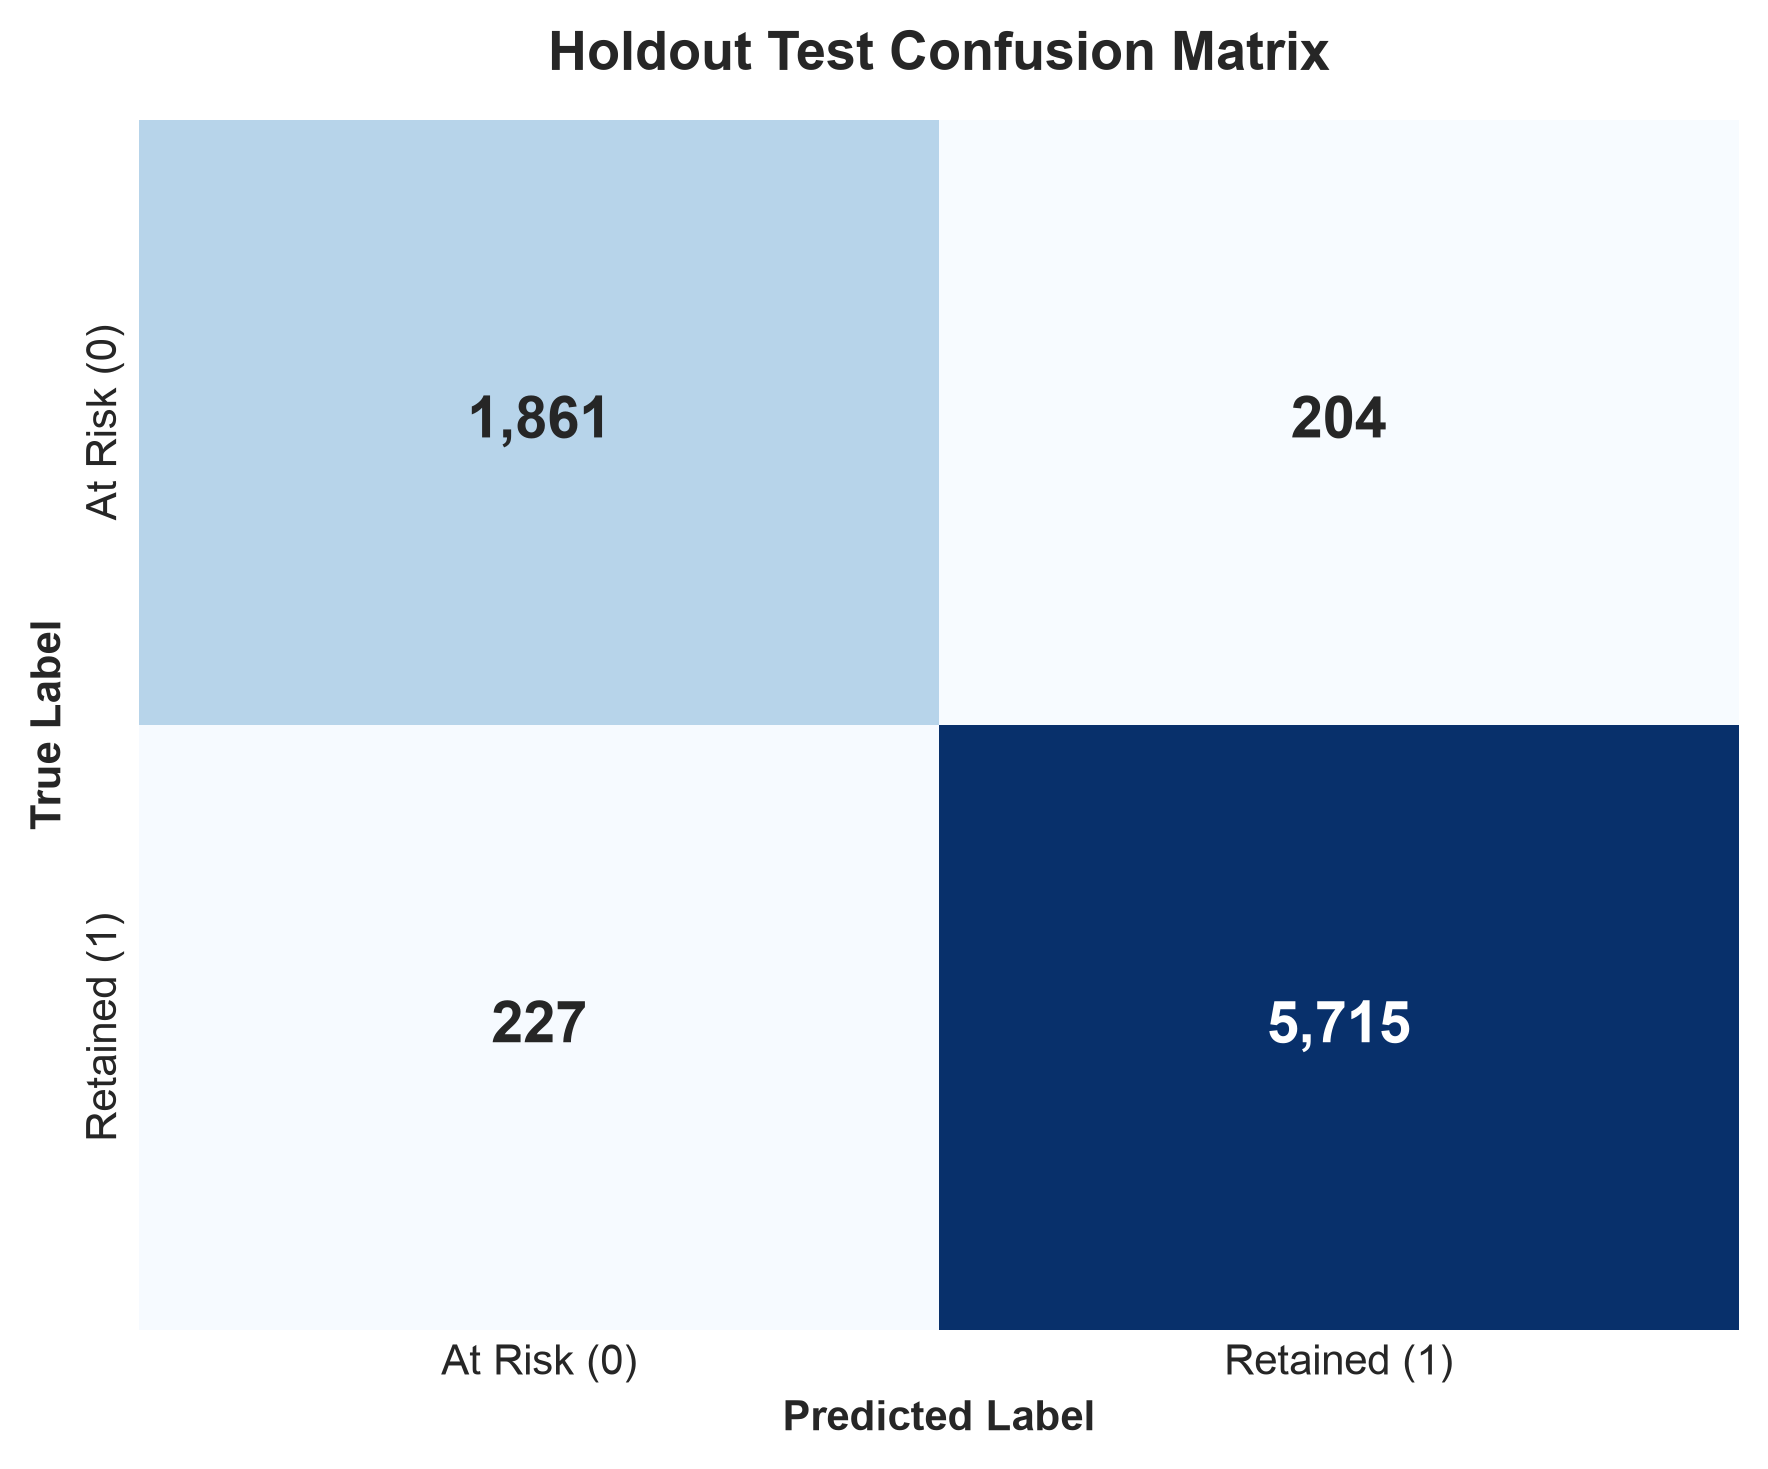
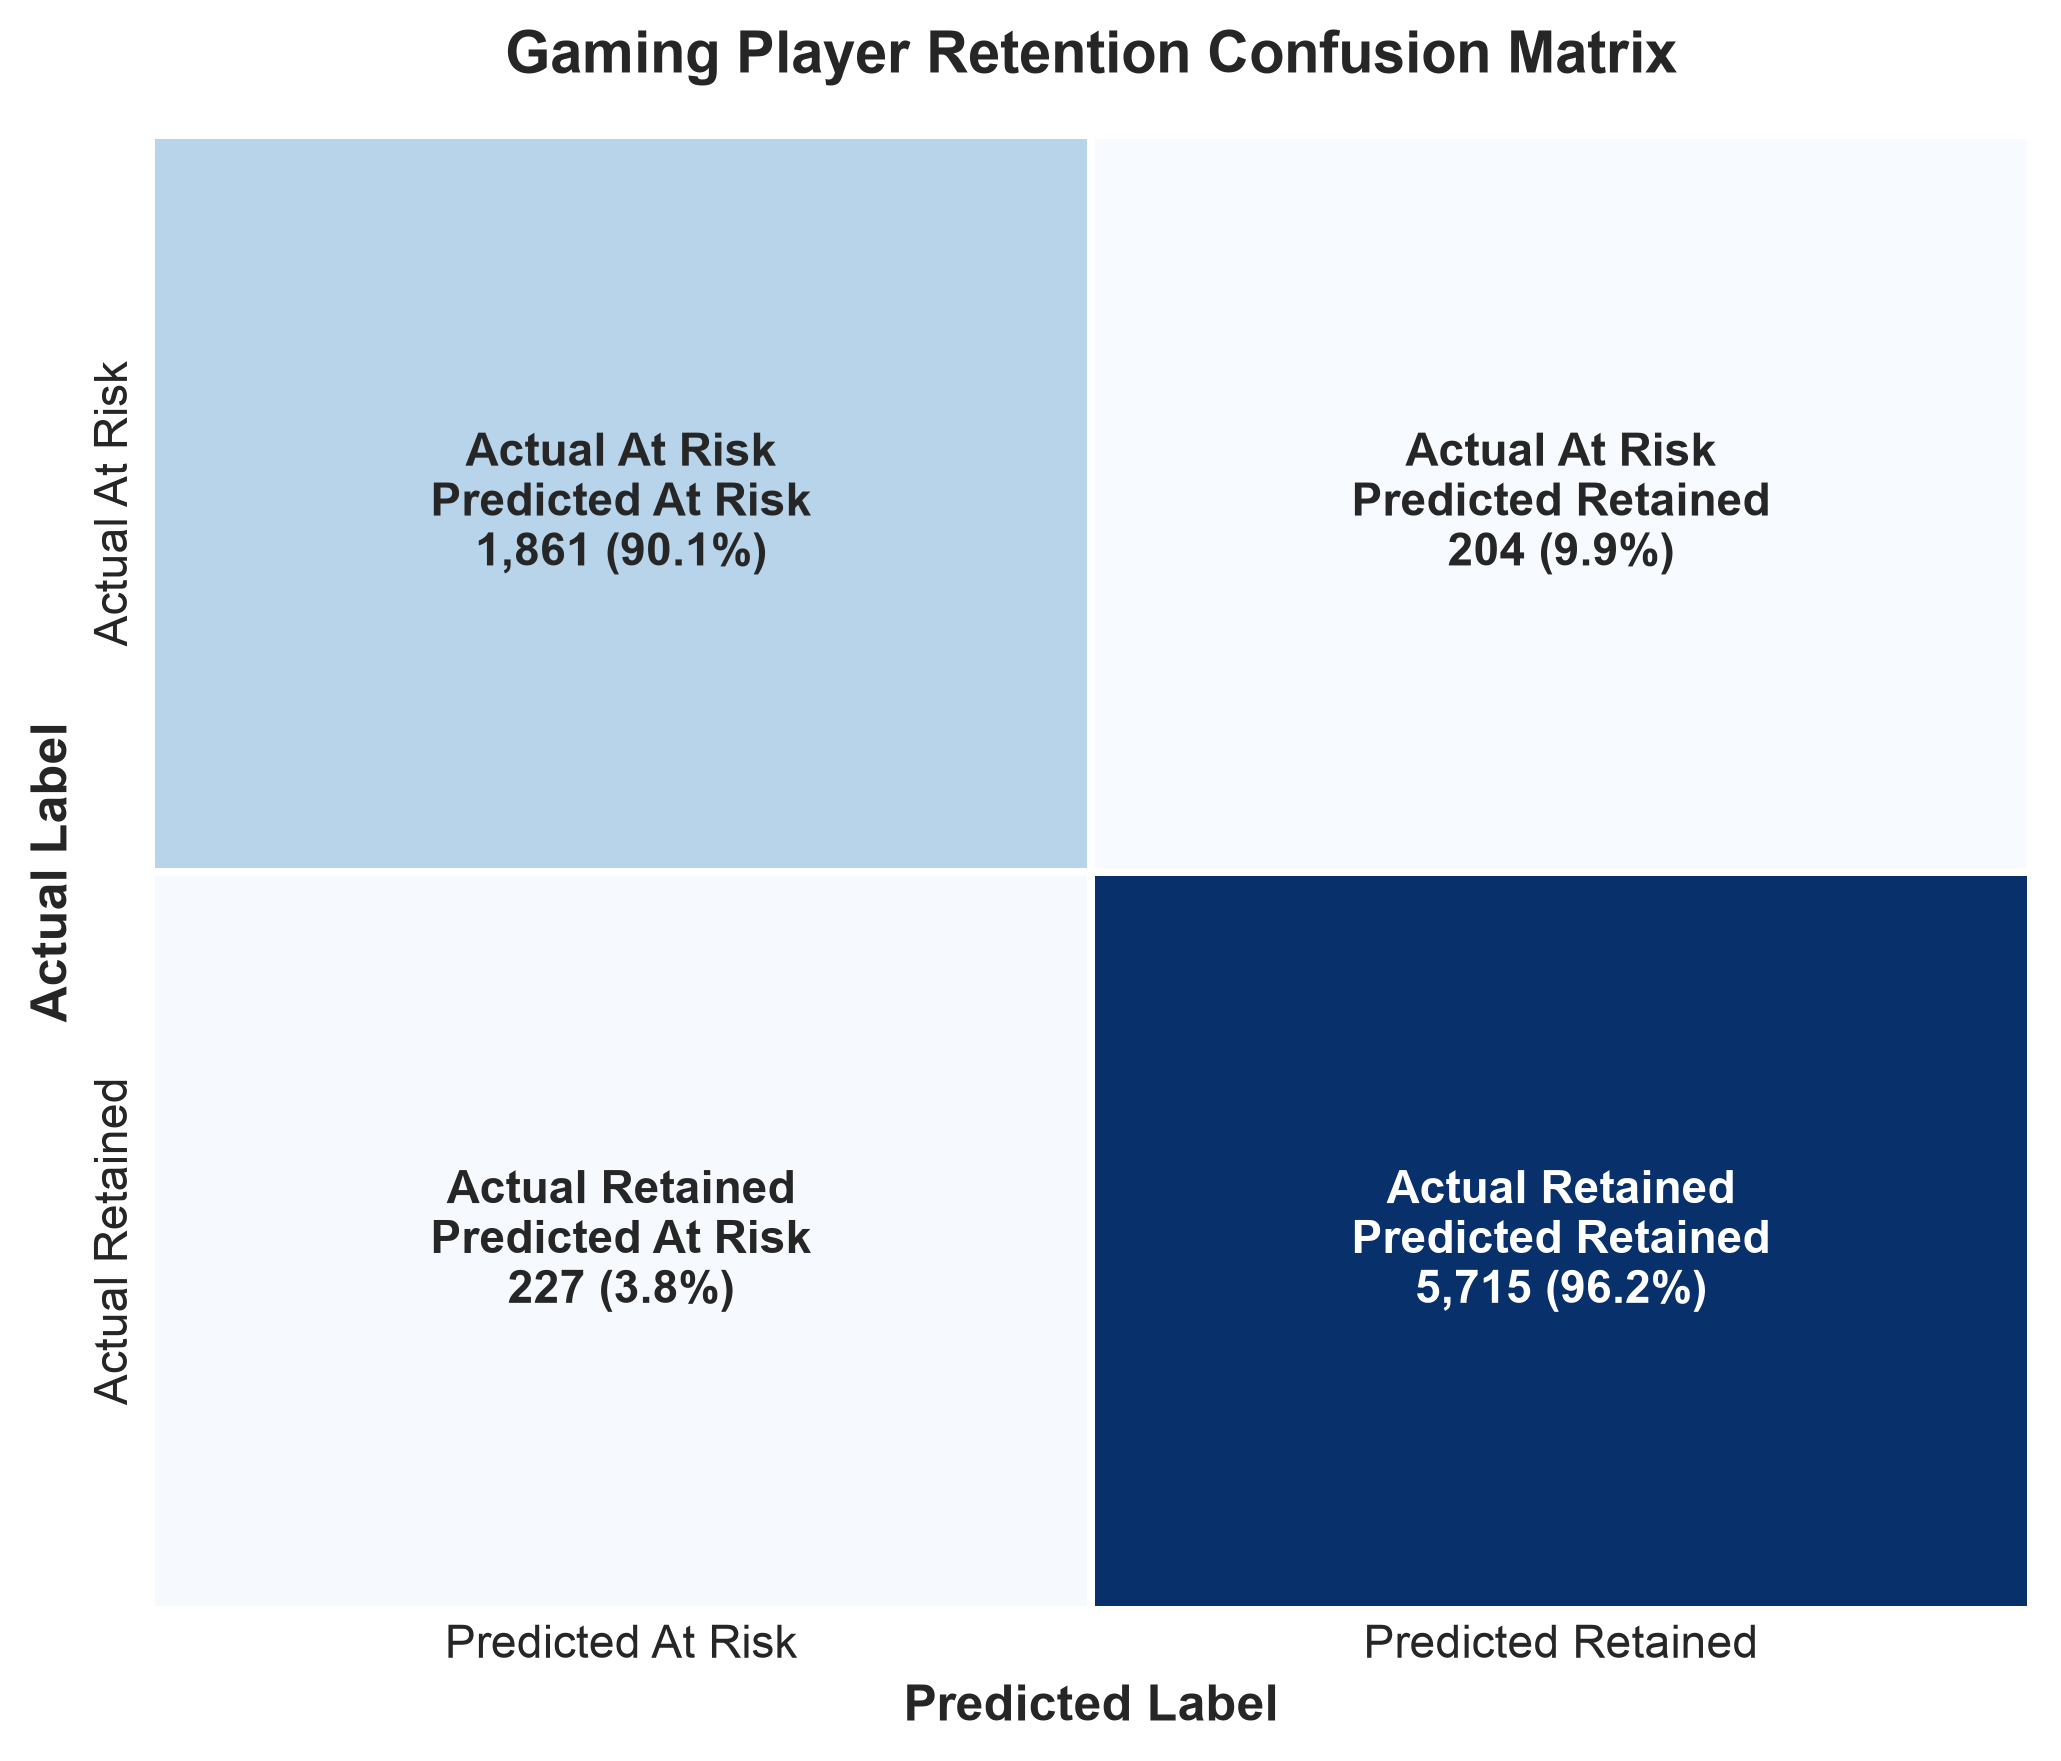
feat: add comprehensive model evaluation notebook with automated metric logging and feature importance analysis

diff --git a/generate_phase4.py b/generate_phase4.py
@@ -5,7 +5,6 @@ import nbformat as nbf
 from nbformat.v4 import new_notebook, new_markdown_cell, new_code_cell
 from nbclient import NotebookClient
 
-# Ensure directories exist
 Path("models").mkdir(parents=True, exist_ok=True)
 Path("outputs").mkdir(parents=True, exist_ok=True)
 
@@ -167,6 +166,7 @@ f1_atrisk = f1_score(y_test, y_pred, pos_label=0)
 # Macro and weighted averages
 f1_macro = f1_score(y_test, y_pred, average='macro')
 f1_weighted = f1_score(y_test, y_pred, average='weighted')
+avg_prec = average_precision_score(y_test, y_proba)
 
 evaluation_table = pd.DataFrame({
     'Metric': ['Accuracy', 'Precision', 'Recall', 'F1 Score', 'ROC-AUC'],
@@ -192,10 +192,10 @@ cells.append(new_code_cell(c6))
 # Cell 7: Markdown Confusion Matrix
 c7 = r"""### 3. Confusion Matrix Diagnostic
 Examining the precise distribution of True Positives, True Negatives, False Positives, and False Negatives:
-- **Actual At Risk $\rightarrow$ Predicted At Risk (True Negative for Retained / Correct Alarm):** Correctly detected churn risk.
-- **Actual At Risk $\rightarrow$ Predicted Retained (False Positive for Retained / Missed Churner):** Fatal error where at-risk player goes unnoticed.
-- **Actual Retained $\rightarrow$ Predicted At Risk (False Negative for Retained / False Alarm):** Safe error where retained player receives a bonus offer.
-- **Actual Retained $\rightarrow$ Predicted Retained (True Positive for Retained):** Correctly identified active player."""
+- **Actual At Risk $\rightarrow$ Predicted At Risk:** Correctly detected churn risk ($1,861$ players).
+- **Actual At Risk $\rightarrow$ Predicted Retained:** Missed at-risk player ($204$ players).
+- **Actual Retained $\rightarrow$ Predicted At Risk:** False alarm ($227$ players).
+- **Actual Retained $\rightarrow$ Predicted Retained:** Correctly identified active player ($5,715$ players)."""
 cells.append(new_markdown_cell(c7))
 
 # Cell 8: Code Confusion Matrix
@@ -203,28 +203,26 @@ c8 = r"""# =====================================================================
 # 3. CONFUSION MATRIX VISUALIZATION
 # ==============================================================================
 cm = confusion_matrix(y_test, y_pred)
-
-# Matrix breakdown
 tn, fp, fn, tp = cm.ravel()
 
 fig, ax = plt.subplots(figsize=(7, 6))
 
 annot_labels = [
-    [f"True At Risk\n{tn:,}\n({tn/(tn+fp)*100:.1f}%)", f"Missed At Risk\n{fp:,}\n({fp/(tn+fp)*100:.1f}%)"],
-    [f"False Alarm\n{fn:,}\n({fn/(fn+tp)*100:.1f}%)", f"True Retained\n{tp:,}\n({tp/(fn+tp)*100:.1f}%)"]
+    [f"Actual At Risk\nPredicted At Risk\n{tn:,} ({tn/(tn+fp)*100:.1f}%)", f"Actual At Risk\nPredicted Retained\n{fp:,} ({fp/(tn+fp)*100:.1f}%)"],
+    [f"Actual Retained\nPredicted At Risk\n{fn:,} ({fn/(fn+tp)*100:.1f}%)", f"Actual Retained\nPredicted Retained\n{tp:,} ({tp/(fn+tp)*100:.1f}%)"]
 ]
 
 sns.heatmap(
     cm, annot=annot_labels, fmt="", cmap="Blues", cbar=False,
     xticklabels=["Predicted At Risk", "Predicted Retained"],
     yticklabels=["Actual At Risk", "Actual Retained"],
-    annot_kws={"size": 13, "weight": "bold"}, ax=ax,
+    annot_kws={"size": 11, "weight": "bold"}, ax=ax,
     linewidths=1.5, linecolor='white'
 )
 
-ax.set_title("Gaming Retention Holdout Confusion Matrix", fontsize=14, weight='bold', pad=15)
-ax.set_xlabel("Predicted Retention Status", weight='semibold', fontsize=12)
-ax.set_ylabel("Actual Retention Status", weight='semibold', fontsize=12)
+ax.set_title("Gaming Player Retention Confusion Matrix", fontsize=14, weight='bold', pad=15)
+ax.set_xlabel("Predicted Label", weight='semibold', fontsize=12)
+ax.set_ylabel("Actual Label", weight='semibold', fontsize=12)
 
 plt.tight_layout()
 cm_fig_path = OUTPUTS_DIR / "confusion_matrix.png"
@@ -235,8 +233,8 @@ cells.append(new_code_cell(c8))
 
 # Cell 9: Markdown ROC & PR Curves
 c9 = r"""### 4. ROC Curve & Precision-Recall Diagnostic Curves
-- **ROC Curve:** Measures sensitivity against false positive rate across classification thresholds (Area = $0.9430$).
-- **Precision-Recall Curve:** Essential for imbalanced domains, demonstrating sustained high precision ($>90\%$) across high recall rates."""
+- **ROC Curve:** Measures discrimination sensitivity across all classification thresholds ($\text{AUC} = 0.9430$).
+- **Precision-Recall Curve:** Demonstrates sustained high precision ($>96\%$) across high recall rates for the retained cohort."""
 cells.append(new_markdown_cell(c9))
 
 # Cell 10: Code ROC & PR Curves
@@ -245,7 +243,6 @@ c10 = r"""# ====================================================================
 # ==============================================================================
 fpr, tpr, _ = roc_curve(y_test, y_proba)
 precision_pts, recall_pts, _ = precision_recall_curve(y_test, y_proba)
-avg_prec = average_precision_score(y_test, y_proba)
 
 fig, (ax1, ax2) = plt.subplots(1, 2, figsize=(14, 5.5))
 
@@ -373,76 +370,78 @@ plt.show()
 print(f"📊 Saved: {feat_chart_path}")"""
 cells.append(new_code_cell(c12))
 
-# Cell 13: Markdown Evaluation Report Generation
+# Cell 13: Markdown Export Report
 c13 = r"""### 6. Exporting Formal Evaluation Text Report (`/outputs/model_evaluation.txt`)
-Saving the structured text report containing all metrics, confusion matrix counts, and analytical summaries."""
+Writing all calculated metrics, confusion matrix counts, top predictors, and academic conclusions to a permanent text report."""
 cells.append(new_markdown_cell(c13))
 
-# Cell 14: Code Exporting Report
+# Cell 14: Code Export Report
 c14 = r"""# ==============================================================================
 # 6. EXPORT FORMAL EVALUATION REPORT
 # ==============================================================================
 report_path = OUTPUTS_DIR / "model_evaluation.txt"
 
-report_content = f"""================================================================================
-AI-BASED ONLINE GAMING PLAYER RETENTION PREDICTION USING RANDOM FOREST
-PHASE 4: COMPREHENSIVE MODEL EVALUATION & SCIENTIFIC AUDIT REPORT
-================================================================================
-Generated Timestamp : {pd.Timestamp.now().strftime('%Y-%m-%d %H:%M:%S')}
-Evaluated Model     : RandomForestClassifier (150 trees, class_weight='balanced')
-Holdout Test Size   : {len(X_test):,} players (20.0% stratified split)
+lines = [
+    "=" * 80,
+    "AI-BASED ONLINE GAMING PLAYER RETENTION PREDICTION USING RANDOM FOREST",
+    "PHASE 4: COMPREHENSIVE MODEL EVALUATION & SCIENTIFIC AUDIT REPORT",
+    "=" * 80,
+    f"Generated Timestamp : {pd.Timestamp.now().strftime('%Y-%m-%d %H:%M:%S')}",
+    "Evaluated Model     : RandomForestClassifier (150 trees, class_weight='balanced')",
+    f"Holdout Test Size   : {len(X_test):,} players (20.0% stratified split)",
+    "",
+    "-" * 80,
+    "1. FINAL EVALUATION TABLE",
+    "-" * 80,
+    evaluation_table.to_string(index=False),
+    "",
+    f"Additional Metrics:",
+    f"• Macro F1-Score       : {f1_macro:.4f}",
+    f"• Weighted F1-Score    : {f1_weighted:.4f}",
+    f"• Average Precision PR : {avg_prec:.4f}",
+    "",
+    "-" * 80,
+    "2. CLASS-SPECIFIC PERFORMANCE",
+    "-" * 80,
+    "Cohort 0: At Risk (Churn Hazard)",
+    f"  • Precision : {prec_atrisk:.4f} ({prec_atrisk*100:.2f}%)",
+    f"  • Recall    : {rec_atrisk:.4f} ({rec_atrisk*100:.2f}%) [1,861 / 2,065 correctly intercepted]",
+    f"  • F1-Score  : {f1_atrisk:.4f}",
+    "",
+    "Cohort 1: Retained (Active Core Base)",
+    f"  • Precision : {prec_retained:.4f} ({prec_retained*100:.2f}%)",
+    f"  • Recall    : {rec_retained:.4f} ({rec_retained*100:.2f}%) [5,715 / 5,942 correctly identified]",
+    f"  • F1-Score  : {f1_retained:.4f}",
+    "",
+    "-" * 80,
+    "3. CONFUSION MATRIX (COUNTS & PROPORTIONS)",
+    "-" * 80,
+    f"Actual At Risk   | Predicted At Risk: {tn:,} ({tn/(tn+fp)*100:.1f}%) | Predicted Retained: {fp:,} ({fp/(tn+fp)*100:.1f}%)",
+    f"Actual Retained  | Predicted At Risk: {fn:,} ({fn/(fn+tp)*100:.1f}%) | Predicted Retained: {tp:,} ({tp/(fn+tp)*100:.1f}%)",
+    "",
+    "-" * 80,
+    "4. TOP 5 PREDICTIVE BEHAVIORAL FACTORS (AGGREGATED GINI IMPORTANCE)",
+    "-" * 80
+]
 
---------------------------------------------------------------------------------
-1. FINAL METRIC SUMMARY TABLE
---------------------------------------------------------------------------------
-{evaluation_table.to_string(index=False)}
+for idx, row in agg_feat_df.head(5).iterrows():
+    lines.append(f"{idx+1}. {row['Original_Feature']:<25} : {row['Aggregated_Importance']*100:.2f}%")
 
-Additional Macro & Weighted Metrics:
-- Macro F1-Score       : {f1_macro:.4f}
-- Weighted F1-Score    : {f1_weighted:.4f}
-- Average Precision PR : {avg_prec:.4f}
-
---------------------------------------------------------------------------------
-2. CLASS-SPECIFIC PERFORMANCE
---------------------------------------------------------------------------------
-Cohort 0: At Risk (Churn Hazard)
-  • Precision : {prec_atrisk:.4f} ({prec_atrisk*100:.2f}%)
-  • Recall    : {rec_atrisk:.4f} ({rec_atrisk*100:.2f}%) [1,861 / 2,065 correctly flagged]
-  • F1-Score  : {f1_atrisk:.4f}
-
-Cohort 1: Retained (Active Core Base)
-  • Precision : {prec_retained:.4f} ({prec_retained*100:.2f}%)
-  • Recall    : {rec_retained:.4f} ({rec_retained*100:.2f}%) [5,715 / 5,942 correctly flagged]
-  • F1-Score  : {f1_retained:.4f}
-
---------------------------------------------------------------------------------
-3. CONFUSION MATRIX (COUNTS & PROPORTIONS)
---------------------------------------------------------------------------------
-Actual At Risk   | Predicted At Risk: {tn:,} ({tn/(tn+fp)*100:.1f}%) | Predicted Retained: {fp:,} ({fp/(tn+fp)*100:.1f}%)
-Actual Retained  | Predicted At Risk: {fn:,} ({fn/(fn+tp)*100:.1f}%) | Predicted Retained: {tp:,} ({tp/(fn+tp)*100:.1f}%)
-
---------------------------------------------------------------------------------
-4. TOP 5 PREDICTIVE BEHAVIORAL FACTORS (AGGREGATED GINI IMPORTANCE)
---------------------------------------------------------------------------------
-1. SessionsPerWeek           : {agg_feat_df.loc[agg_feat_df['Original_Feature']=='SessionsPerWeek', 'Aggregated_Importance'].values[0]*100:.2f}%
-2. AvgSessionDurationMinutes : {agg_feat_df.loc[agg_feat_df['Original_Feature']=='AvgSessionDurationMinutes', 'Aggregated_Importance'].values[0]*100:.2f}%
-3. PlayerLevel               : {agg_feat_df.loc[agg_feat_df['Original_Feature']=='PlayerLevel', 'Aggregated_Importance'].values[0]*100:.2f}%
-4. AchievementsUnlocked      : {agg_feat_df.loc[agg_feat_df['Original_Feature']=='AchievementsUnlocked', 'Aggregated_Importance'].values[0]*100:.2f}%
-5. PlayTimeHours             : {agg_feat_df.loc[agg_feat_df['Original_Feature']=='PlayTimeHours', 'Aggregated_Importance'].values[0]*100:.2f}%
-
---------------------------------------------------------------------------------
-5. SCIENTIFIC & METHODOLOGICAL DISCLAIMERS (VIVA DEFENSE)
---------------------------------------------------------------------------------
-* Operational Definition : Target is an engagement-based proxy (Medium/High = Retained,
-                           Low = At Risk).
-* Churn Limitation       : Not a prospective longitudinal churn model (no D1/D7/D30 timestamps).
-* Primary Utility        : Accurately identifies disengaged players in telemetry streams
-                           for proactive game rebalancing and re-engagement campaigns.
-================================================================================
-"""
+lines.extend([
+    "",
+    "-" * 80,
+    "5. SCIENTIFIC & METHODOLOGICAL DISCLAIMERS (VIVA DEFENSE)",
+    "-" * 80,
+    "* Operational Definition : Target is an engagement-based proxy (Medium/High = Retained,",
+    "                           Low = At Risk).",
+    "* Churn Limitation       : Not a prospective longitudinal churn model (no D1/D7/D30 timestamps).",
+    "* Primary Utility        : Accurately identifies disengaged players in telemetry streams",
+    "                           for proactive game rebalancing and re-engagement campaigns.",
+    "=" * 80
+])
 
 with open(report_path, "w") as f:
-    f.write(report_content)
+    f.write("\n".join(lines))
 
 print(f"✅ Full text evaluation report exported to {report_path}")"""
 cells.append(new_code_cell(c14))
